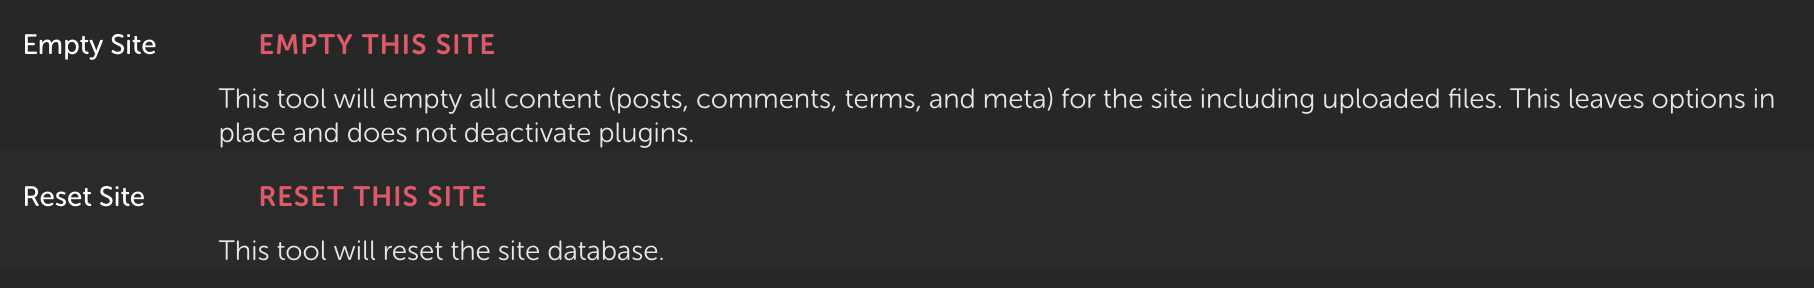
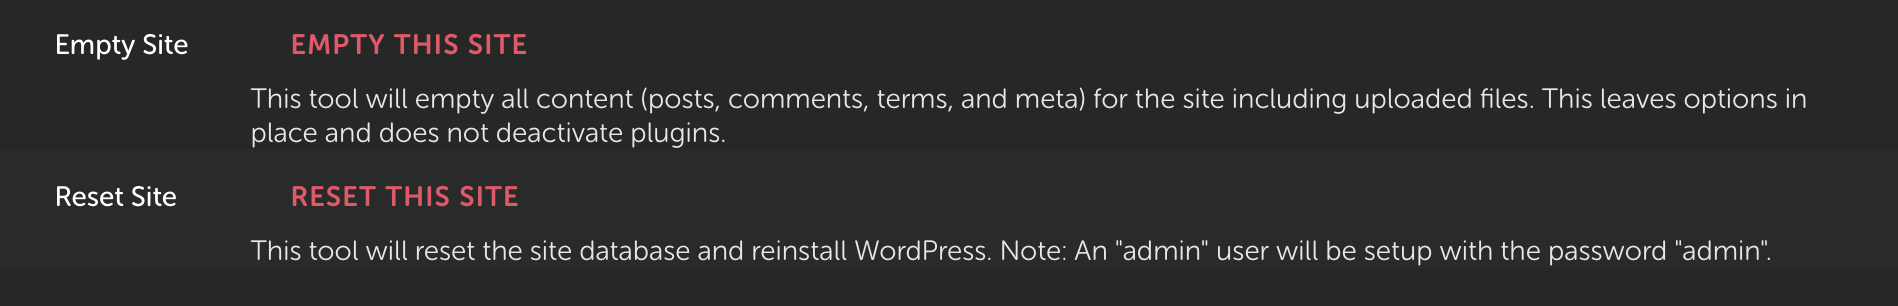
Update screenshot, update readme with text additions

diff --git a/src/Boilerplate.jsx b/src/Boilerplate.jsx
@@ -206,7 +206,8 @@ export default class Boilerplate extends Component {
 					{this.showResetFailedText()}
 
 					<Text tag="div" margin="l">
-						This tool will reset the site database.
+						This tool will reset the site database and reinstall WordPress.
+						Note: An "admin" user will be setup with the password "admin".
 					</Text>
 				</TableListRow>
 			</TableList>

diff --git a/README.md b/README.md
@@ -14,7 +14,9 @@ This leaves options in place and does not deactivate plugins.
 
 ## Reset Site
 
-This tool will reset the site database.
+This tool will delete the entire site database and reinstall WordPress.
+
+_Note: An "admin" user will be setup with the password "admin"._
 
 ## Installation
 
